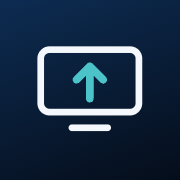
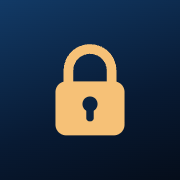
قفل البيت: مفتاح واحد قصير للبيت، وأيقونة قفل

Changed region(s): [[0.1944, 0.2222, 0.8056, 0.7778]]

diff --git a/index.html b/index.html
@@ -6,9 +6,10 @@
 <meta name="theme-color" content="#081a33">
 <meta name="apple-mobile-web-app-capable" content="yes">
 <meta name="apple-mobile-web-app-status-bar-style" content="black-translucent">
-<meta name="apple-mobile-web-app-title" content="الشاشات">
+<meta name="apple-mobile-web-app-title" content="قفل البيت">
 <link rel="apple-touch-icon" href="icon-180.png">
-<title>شاشات البيت</title>
+<link rel="icon" href="icon-180.png">
+<title>قفل البيت</title>
 <style>
 @font-face { font-family: T; src: url(fonts/thmanyah-400.otf); font-weight: 400; }
 @font-face { font-family: T; src: url(fonts/thmanyah-700.otf); font-weight: 700; }
@@ -65,7 +66,7 @@ summary::after { content: ' ▾'; }
 </style>
 </head>
 <body>
-<h1>شاشات البيت</h1>
+<h1>قفل البيت</h1>
 <p class="sub">اقفل اليوتيوب أو التلفزيون كامل، وأرسل لهم رسالة، من أي مكان</p>
 <div id="boxes"></div>
 <p class="note">الأمر يوصل للبوكس خلال ثواني إذا كان شغّال ومتصل بالنت. لو اليوتيوب مفتوح وقت القفل يطلع منه على طول، وكل ما حاولوا يفتحونه يطلعون.<br>عشان تفتح الصفحة بضغطة: من سفاري اضغط مشاركة ← إضافة إلى الشاشة الرئيسية.</p>
@@ -77,39 +78,43 @@ function $(id) { return document.getElementById(id); }
 function ar(n) { return String(n).replace(/\d/g, function (d) { return '٠١٢٣٤٥٦٧٨٩'[d]; }); }
 function esc(s) { return String(s).replace(/[&<>"]/g, function (c) { return { '&': '&amp;', '<': '&lt;', '>': '&gt;', '"': '&quot;' }[c]; }); }
 
-// البوكسات تجي من الرابط (#b=topic1,topic2) وتنحفظ في الجوال
-var topics = JSON.parse(localStorage.getItem('tvh-topics') || '[]');
-var m = location.hash.match(/b=([\w,-]+)/);
-if (m) m[1].split(',').forEach(function (t) { if (t && topics.indexOf(t) < 0) topics.push(t); });
-localStorage.setItem('tvh-topics', JSON.stringify(topics));
-if (m) history.replaceState(null, '', location.pathname);
+// مفتاح البيت يجي من الرابط (#المفتاح) وينحفظ في الجوال. كل البوكسات ترد على tvh-<المفتاح>-s
+var key = (location.hash.match(/^#([a-z0-9]{8,})$/) || [])[1] || localStorage.getItem('bait-key');
+if (key) localStorage.setItem('bait-key', key);
+// نخلي المفتاح في الرابط عشان «إضافة إلى الشاشة الرئيسية» تحفظه
+if (key && location.hash !== '#' + key) history.replaceState(null, '', location.pathname + '#' + key);
 
-var boxes = {};   // topic → { st, dur, pending, el }
-if (!topics.length) $('boxes').innerHTML = '<div class="empty">ما فيه بوكسات مربوطة.<br>افتح رابط الربط اللي وصلك مرة وحدة، وبعدها تفتح الصفحة على طول.</div>';
-topics.forEach(function (t) {
-  var b = boxes[t] = { topic: t, st: null, dur: 0, pending: '' };
-  b.el = document.createElement('div');
-  b.el.className = 'box';
-  $('boxes').appendChild(b.el);
-  draw(b);
-  listen(b);
-});
-
-function listen(b) {
-  var es = new EventSource(NTFY + b.topic + '-s/sse?since=12h');
+var boxes = {};   // رقم البوكس → { st, el }
+var known = JSON.parse(localStorage.getItem('bait-boxes') || '[]');
+if (!key) $('boxes').innerHTML = '<div class="empty">ما فيه بيت مربوط.<br>افتح رابط الربط اللي وصلك مرة وحدة، أو صوّر الباركود من الرئيسية في التلفزيون.</div>';
+else {
+  $('boxes').innerHTML = '<div class="empty" id="wait">يدوّر على البوكسات…</div>';
+  var es = new EventSource(NTFY + 'tvh-' + key + '-s/sse?since=12h');
   es.onmessage = function (e) {
-    try { var o = JSON.parse(e.data); b.st = JSON.parse(o.message); } catch (x) { return; }
+    var st;
+    try { st = JSON.parse(JSON.parse(e.data).message); } catch (x) { return; }
+    if (!st.id) return;
+    var b = boxes[st.id];
+    if (!b) {
+      b = boxes[st.id] = { id: st.id, topic: 'tvh-' + key + '-' + st.id, pending: '' };
+      b.el = document.createElement('div');
+      b.el.className = 'box';
+      var w = $('wait'); if (w) w.remove();
+      $('boxes').appendChild(b.el);
+      if (known.indexOf(st.id) < 0) { known.push(st.id); localStorage.setItem('bait-boxes', JSON.stringify(known)); }
+    }
+    b.st = st;
     b.pending = '';
     draw(b);
   };
-  // لو ما وصلت حالة من فترة نطلبها
-  setTimeout(function () { if (!b.st || Date.now() - b.st.ts > 15 * 60000) send(b, { ping: 1 }); }, 2500);
+  // نطلب حالة جديدة من البوكسات اللي نعرفها
+  setTimeout(function () { known.forEach(function (id) { if (!boxes[id] || Date.now() - boxes[id].st.ts > 15 * 60000) send({ topic: 'tvh-' + key + '-' + id }, { ping: 1 }); }); }, 2500);
 }
 setInterval(function () { Object.keys(boxes).forEach(function (t) { draw(boxes[t]); }); }, 30000);
 
 function send(b, msg) {
   return fetch(NTFY + b.topic, { method: 'POST', body: JSON.stringify(msg) }).catch(function () {
-    b.pending = 'ما قدرت أرسل، تأكد من النت'; draw(b);
+    if (b.el) { b.pending = 'ما قدرت أرسل، تأكد من النت'; draw(b); }
   });
 }
 

diff --git a/README.md b/README.md
@@ -1,4 +1,4 @@
-# تحكم الشاشات
+# قفل البيت
 
 صفحة جوال تقفل التطبيقات وتقطع النت عن بوكسات «الرئيسية» (com.nader.tvhome) من أي مكان.
 الأوامر تمر عبر ntfy.sh: الصفحة ترسل الحالة المطلوبة على `<topic>`، والبوكس يرد بحالته على `<topic>-s`.
